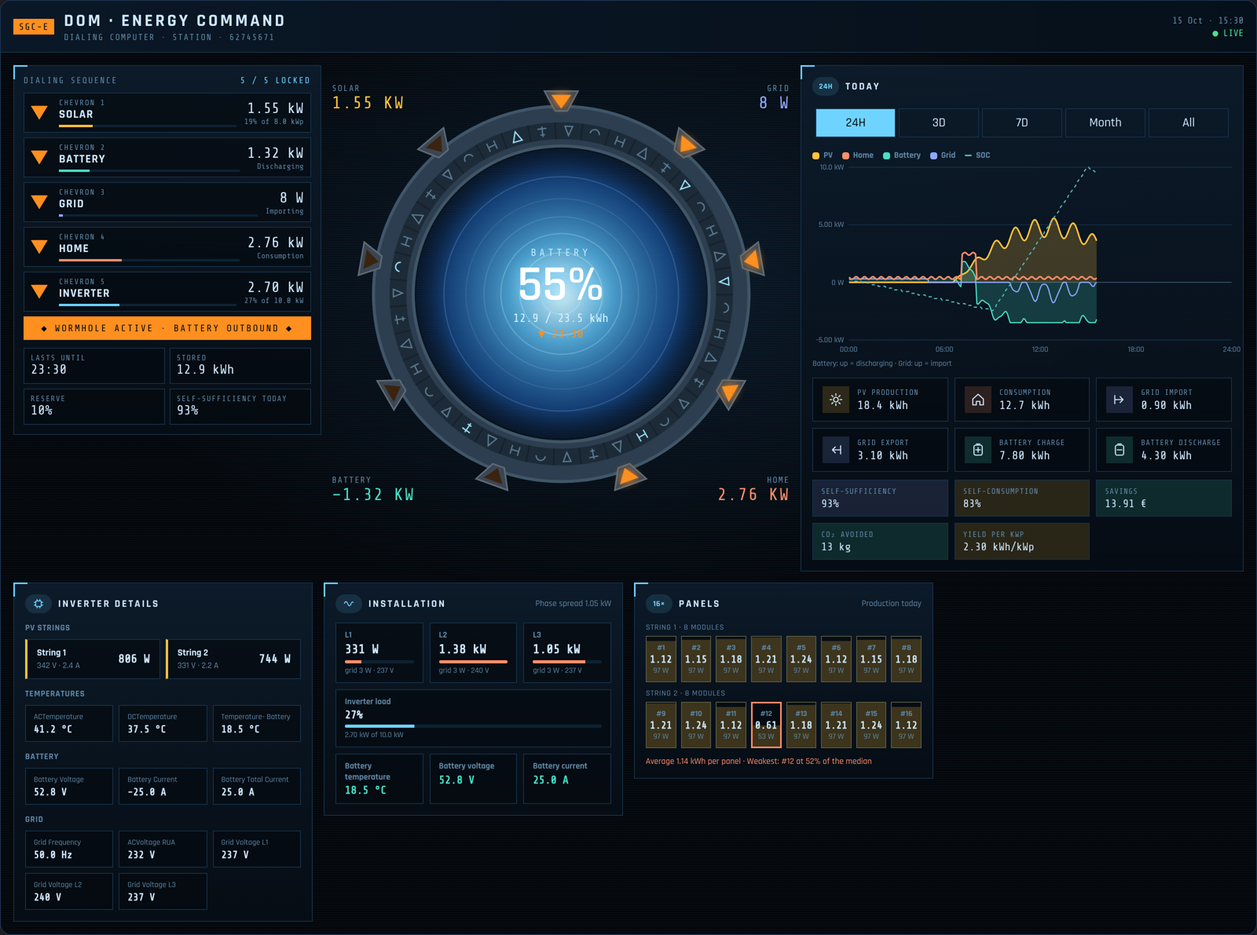
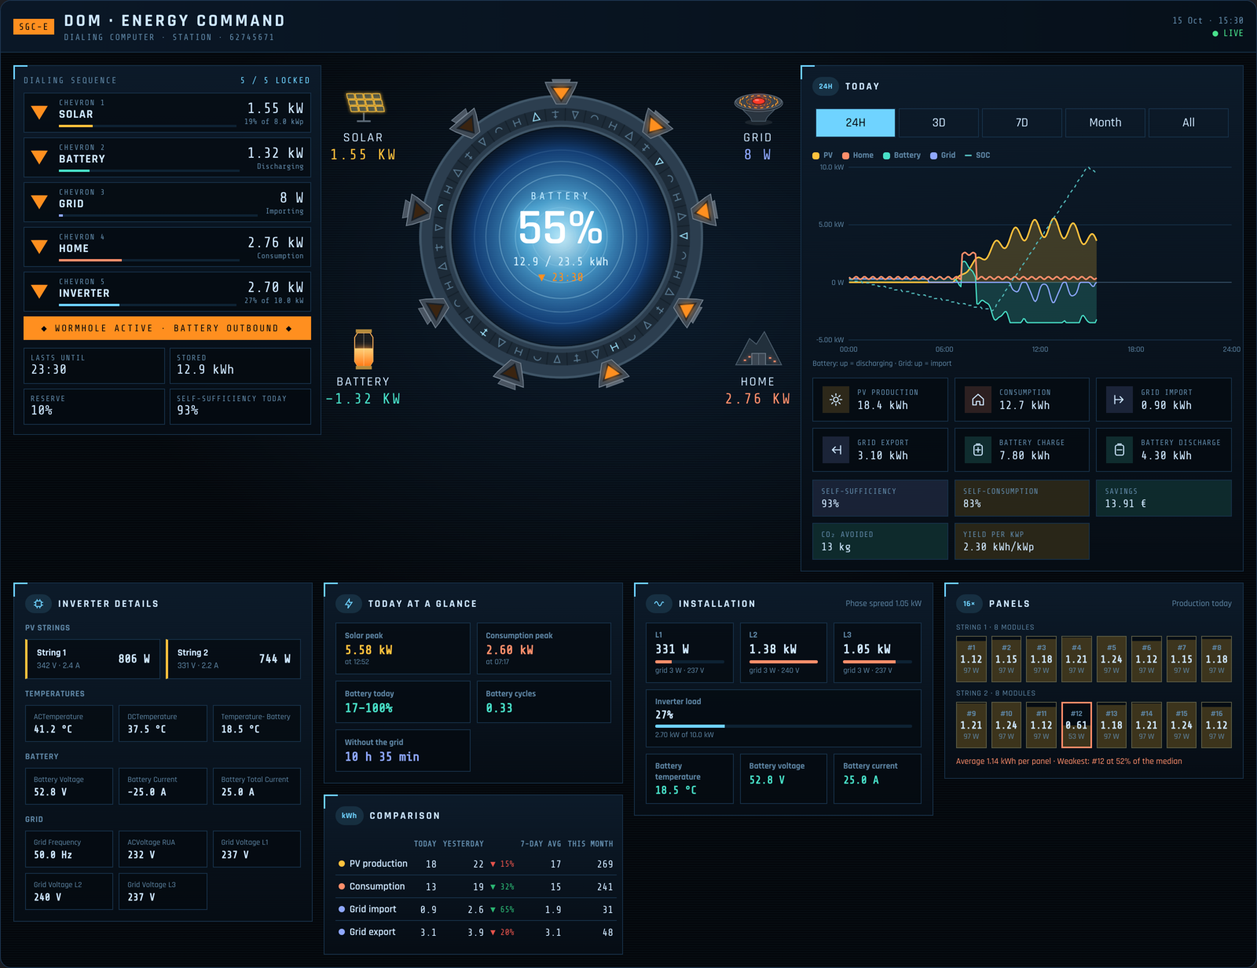
Gate: chevrons after the show, a redrawn DHD, pictures in the wide gate
Claude-Session: https://claude.ai/code/session_0152SgGeW2oeSktbBVvrriod

diff --git a/solar-flow-card.js b/solar-flow-card.js
@@ -2987,7 +2987,11 @@ function gateRingMarkup(m, { lit, active, ports, id }) {
     const cls = !ports ? (i < lit ? "on" : "")
       : port ? `port ${kind} ${port[0] ? "on" : ""}` : kind ? "unused" : GATE_LEVEL.indexOf(i) < lit ? "on" : "";
     chevrons += `<g class="gt-chevron ${cls}" transform="translate(${(Math.cos(a) * 252).toFixed(1)} ${(Math.sin(a) * 252).toFixed(1)}) rotate(${angle + 90})">
-      <path d="M-22 -14 L22 -14 L8 12 L-8 12 Z" class="gt-chevron-body"/><path d="M-13 -9 L13 -9 L0 9 Z" class="gt-chevron-light"/></g>`;
+      <path d="M-16 -27 L16 -27 L13 -19 L-13 -19 Z" class="gt-chevron-clamp"/>
+      <path d="M-28 -18 L28 -18 L24 -8 L9 20 L-9 20 L-24 -8 Z" class="gt-chevron-body"/>
+      <path d="M-24 -8 L-9 20 M24 -8 L9 20 M-28 -18 L28 -18" class="gt-chevron-rib"/>
+      <path d="M-19 -11 L19 -11 L0 17 Z" class="gt-chevron-recess"/>
+      <path d="M-14 -8 L14 -8 L0 12 Z" class="gt-chevron-light"/></g>`;
   }
   const spin = m.live.chargeActive ? "cw" : m.live.dischargeActive ? "ccw" : "";
   const ripples = Array.from({ length: 6 }, (_, i) => `<circle r="${(i + 1) * 26}" style="--d:${loopPhase(6, i)}"/>`).join("");
@@ -3008,12 +3012,19 @@ const gateDefs = (id) => `<defs>
 </defs>`;
 
 // Wide layout: the full gate, nine chevrons for the battery level.
+// Wide layout: the full gate, nine chevrons for the battery level, with
+// the corner pictures beside it (viewBox -400…400 × -300…300).
+const GATE_FULL_ICONS = { pv: [-345, -232], grid: [345, -232], load: [345, 196], battery: [-345, 196] };
+
 function gateFull(m, lit, active) {
-  return `<svg class="gt-svg" viewBox="-300 -300 600 600" aria-hidden="true">${gateDefs("full")}${gateRingMarkup(m, { lit, active, ports: null, id: "full" })}</svg>`;
+  const icons = Object.entries(GATE_FULL_ICONS)
+    .filter(([kind]) => (kind !== "pv" || m.config.showSolar) && (kind !== "battery" || m.config.showBattery))
+    .map(([kind, [x, y]]) => `<g transform="translate(${x} ${y})">${gateIcon(kind, m, "full")}</g>`).join("");
+  return `<svg class="gt-svg" viewBox="-400 -300 800 600" aria-hidden="true">${gateDefs("full")}${icons}${gateRingMarkup(m, { lit, active, ports: null, id: "full" })}</svg>`;
 }
 
 // Pictures for the corners, drawn around 0,0 within about ±40.
-function gateIcon(kind, m) {
+function gateIcon(kind, m, id) {
   const { live } = m;
   if (kind === "pv") {
     // An array of solar cells on a stand.
@@ -3026,23 +3037,31 @@ function gateIcon(kind, m) {
     const level = isNum(live.soc) ? clamp(live.soc, 0, 100) / 100 : 0;
     const top = 30 - level * 56;
     return `<g class="gt-icon battery ${live.chargeActive || live.dischargeActive ? "on" : ""}">
-      <clipPath id="gt-zpm-clip"><path d="M-11 -28 L11 -28 L16 -20 L16 22 L11 30 L-11 30 L-16 22 L-16 -20 Z"/></clipPath>
+      <clipPath id="gt-zpm-clip-${id}"><path d="M-11 -28 L11 -28 L16 -20 L16 22 L11 30 L-11 30 L-16 22 L-16 -20 Z"/></clipPath>
       <path class="gt-zpm-glass" d="M-11 -28 L11 -28 L16 -20 L16 22 L11 30 L-11 30 L-16 22 L-16 -20 Z"/>
-      <rect clip-path="url(#gt-zpm-clip)" x="-16" y="${top.toFixed(1)}" width="32" height="${(30 - top).toFixed(1)}" fill="url(#gt-zpm-compact)" class="gt-zpm-core"/>
+      <rect clip-path="url(#gt-zpm-clip-${id})" x="-16" y="${top.toFixed(1)}" width="32" height="${(30 - top).toFixed(1)}" fill="url(#gt-zpm-${id})" class="gt-zpm-core"/>
       <path class="gt-zpm-band" d="M-14 -34 H14 V-28 H-14 Z M-14 30 H14 V36 H-14 Z"/>
       <path class="gt-zpm-edge" d="M0 -28 V30"/></g>`;
   }
   if (kind === "grid") {
     // A dial home device: rings of glyph keys round a red dome.
-    const keys = (rx, ry, n) => Array.from({ length: n }, (_, i) => {
-      const a = (i / n) * Math.PI * 2;
-      return `<ellipse cx="${(Math.cos(a) * rx).toFixed(1)}" cy="${(Math.sin(a) * ry).toFixed(1)}" rx="3" ry="2"/>`;
+    // Seen from the front and above: a pedestal, a round console with two
+    // rings of nineteen keys, and the red dome in the middle.
+    const ring = (rx, ry, w, cy) => Array.from({ length: 19 }, (_, i) => {
+      const a = (i / 19) * Math.PI * 2 - Math.PI / 2;
+      const x = Math.cos(a) * rx;
+      const y = cy + Math.sin(a) * ry;
+      return `<rect x="${(x - w / 2).toFixed(1)}" y="${(y - w * 0.22).toFixed(1)}" width="${w}" height="${(w * 0.44).toFixed(1)}" rx="1" transform="rotate(${((a * 180) / Math.PI + 90).toFixed(0)} ${x.toFixed(1)} ${y.toFixed(1)})"/>`;
     }).join("");
     return `<g class="gt-icon grid ${live.importActive || live.exportActive ? "on" : ""}">
-      <path class="gt-dhd-base" d="M-36 4 L-26 24 H26 L36 4"/>
-      <ellipse class="gt-dhd-top" rx="38" ry="18" cy="2"/>
-      <g class="gt-dhd-keys">${keys(30, 13, 16)}${keys(19, 8, 12)}</g>
-      <ellipse class="gt-dhd-dome" rx="8" ry="5" cy="1"/></g>`;
+      <ellipse class="gt-dhd-foot" cx="0" cy="32" rx="24" ry="5"/>
+      <path class="gt-dhd-stand" d="M-34 -2 C-30 14 -14 18 -12 30 L12 30 C14 18 30 14 34 -2 Z"/>
+      <ellipse class="gt-dhd-rim" cx="0" cy="-2" rx="42" ry="15"/>
+      <ellipse class="gt-dhd-top" cx="0" cy="-4" rx="40" ry="13.5"/>
+      <g class="gt-dhd-keys outer">${ring(33, 10.5, 6, -4)}</g>
+      <g class="gt-dhd-keys inner">${ring(21, 6.5, 4.4, -4)}</g>
+      <ellipse class="gt-dhd-dome" cx="0" cy="-5" rx="11" ry="5.5"/>
+      <ellipse class="gt-dhd-shine" cx="-3" cy="-7" rx="4" ry="1.6"/></g>`;
   }
   // The base inside the mountain.
   return `<g class="gt-icon load ${live.loadActive ? "on" : ""}">
@@ -3071,7 +3090,7 @@ function gateCompact(m, lit, active) {
     const [x, y] = GATE_ICONS[kind];
     const start = [x + (x < 0 ? 44 : -44), y + (y < 0 ? 18 : -14)];
     lines += flowPath(`M${start[0]} ${start[1]} Q${((start[0] + tip[0]) / 2).toFixed(0)} ${start[1]} ${tip[0].toFixed(1)} ${tip[1].toFixed(1)}`, port[0], port[1], kind);
-    icons += `<g transform="translate(${x} ${y})">${gateIcon(kind, m)}</g>`;
+    icons += `<g transform="translate(${x} ${y})">${gateIcon(kind, m, "compact")}</g>`;
   }
   return `<svg class="gt-svg" viewBox="-330 -280 660 560" aria-hidden="true">${gateDefs("compact")}
     <g class="gt-lines" fill="none" stroke-linecap="round">${lines}</g>
@@ -3120,11 +3139,14 @@ function renderGate(m) {
     load: [t.home, formatPower(live.load, locale), m.ids.live.load],
   };
   // Readouts under the corner pictures of the compact gate (viewBox -330…330 × -280…280).
-  const label = (kind) => {
-    const [x, y] = GATE_ICONS[kind];
+  // A readout under a corner picture; positions follow each gate's viewBox.
+  const label = (kind, wide = false) => {
+    const [x, y] = (wide ? GATE_FULL_ICONS : GATE_ICONS)[kind];
+    const [w, h] = wide ? [800, 600] : [660, 560];
     const [name, value, entity] = values[kind];
-    return `<button class="gt-label ${kind}" style="left:${(((x + 330) / 660) * 100).toFixed(1)}%;top:${(((y + 44 + 280) / 560) * 100).toFixed(1)}%" ${entityAttr(entity)}>${escapeHtml(name)}<b>${escapeHtml(value)}</b></button>`;
+    return `<button class="gt-label ${kind}" style="left:${(((x + w / 2) / w) * 100).toFixed(1)}%;top:${(((y + 44 + h / 2) / h) * 100).toFixed(1)}%" ${entityAttr(entity)}>${escapeHtml(name)}<b>${escapeHtml(value)}</b></button>`;
   };
+  const shown = ["pv", "grid", "battery", "load"].filter((kind) => (kind !== "pv" || config.showSolar) && (kind !== "battery" || config.showBattery));
   const center = `
         <button class="gt-center" data-action="inverter" title="${escapeHtml(t.inverterDetails)}">
           ${config.showBattery ? `
@@ -3143,15 +3165,12 @@ function renderGate(m) {
       <div class="gt-gate gt-compact">
         ${gateCompact(m, Math.round((level / 100) * GATE_LEVEL.length), active)}
         ${center}
-        ${["pv", "grid", "battery", "load"].filter((kind) => (kind !== "pv" || config.showSolar) && (kind !== "battery" || config.showBattery)).map(label).join("")}
+        ${shown.map((kind) => label(kind)).join("")}
       </div>
       <div class="gt-gate gt-full">
         ${gateFull(m, Math.round((level / 100) * 9), active)}
         ${center}
-        ${config.showSolar ? corner("pv", "left:0;top:4%", t.solar, formatPower(live.solar, locale)) : ""}
-        ${corner("grid", "right:0;top:4%", t.grid, formatPower(gridValue, locale))}
-        ${config.showBattery ? corner("battery", "left:0;bottom:4%", t.battery, `${live.dischargeActive ? "−" : live.chargeActive ? "+" : ""}${formatPower(batteryFlow, locale)}`) : ""}
-        ${corner("load", "right:0;bottom:4%", t.home, formatPower(live.load, locale))}
+        ${shown.map((kind) => label(kind, true)).join("")}
       </div>
       <div class="gt-panel gt-dial">
         <div class="gt-ph"><span>${escapeHtml(t.gateDial)}</span><b>${escapeHtml(fill(t.gateLocked, { n: locked, total: rows.length }))}</b></div>
@@ -3942,10 +3961,15 @@ const THEME_CSS = {
     .gt-zpm-glass { fill: rgba(255,170,80,.08); stroke: #ffb35c; stroke-width: 1.6; }
     .gt-zpm-band { fill: #b48a3c; } .gt-zpm-edge { stroke: rgba(255,230,190,.5); stroke-width: 1; }
     .gt-icon.battery.on .gt-zpm-core { filter: drop-shadow(0 0 6px #ff9a3c); }
-    .gt-dhd-base { fill: #2a3540; stroke: #5d6b78; stroke-width: 1.5; }
-    .gt-dhd-top { fill: #3b4652; stroke: #6c7a88; stroke-width: 1.5; }
-    .gt-dhd-keys ellipse { fill: #8a6a3a; } .gt-icon.grid.on .gt-dhd-keys ellipse { fill: #ffb35c; }
-    .gt-dhd-dome { fill: #7a1d14; } .gt-icon.grid.on .gt-dhd-dome { fill: #ff4433; filter: drop-shadow(0 0 6px #ff4433); }
+    .gt-dhd-foot { fill: #1c252e; }
+    .gt-dhd-stand { fill: #2a3540; stroke: #4c5d6c; stroke-width: 1.2; }
+    .gt-dhd-rim { fill: #222c35; stroke: #5d6b78; stroke-width: 1.2; }
+    .gt-dhd-top { fill: #3b4652; stroke: #6c7a88; stroke-width: 1; }
+    .gt-dhd-keys rect { fill: #6e5530; stroke: #2a2014; stroke-width: .5; }
+    .gt-icon.grid.on .gt-dhd-keys.outer rect { fill: #e39a45; } .gt-icon.grid.on .gt-dhd-keys.inner rect { fill: #c9853a; }
+    .gt-dhd-dome { fill: #6e1a12; stroke: #3a0d08; stroke-width: 1; }
+    .gt-icon.grid.on .gt-dhd-dome { fill: #ff3b2a; filter: drop-shadow(0 0 7px #ff4433); }
+    .gt-dhd-shine { fill: rgba(255,255,255,.35); }
     .gt-sgc-mountain { fill: #22303c; stroke: #4c5d6c; stroke-width: 1.5; }
     .gt-sgc-door { fill: #3b4652; stroke: #6c7a88; stroke-width: 1.5; } .gt-sgc-door-line { stroke: #6c7a88; }
     .gt-sgc-lights { stroke: #3a4a58; stroke-width: 2.5; } .gt-icon.load.on .gt-sgc-lights { stroke: var(--sfc-load); filter: drop-shadow(0 0 3px var(--sfc-load)); }
@@ -3964,7 +3988,13 @@ const THEME_CSS = {
     .gt-glyphs.cw { animation: gt-spin 180s linear infinite; animation-delay: var(--d); }
     .gt-glyphs.ccw { animation: gt-spin 180s linear infinite reverse; animation-delay: var(--d); }
     @keyframes gt-spin { to { transform: rotate(360deg); } }
-    .gt-chevron-body { fill: #3b4652; stroke: #5d6b78; stroke-width: 2; }
+    /* Chevrons: a metal arrowhead housing, a clamp that drops into place
+       when the chevron locks, and the triangular light. */
+    .gt-chevron-body { fill: #3e4955; stroke: #6b7987; stroke-width: 1.5; }
+    .gt-chevron-rib { fill: none; stroke: #8996a3; stroke-width: 1; opacity: .6; }
+    .gt-chevron-recess { fill: #1a2027; }
+    .gt-chevron-clamp { fill: #4a5562; stroke: #6b7987; stroke-width: 1.2; transition: transform .6s; transform-box: fill-box; }
+    .gt-chevron.on .gt-chevron-clamp, .gt-chevron.port.on .gt-chevron-clamp { transform: translateY(4px); fill: #5b6672; }
     .gt-chevron-light { fill: #3a2410; }
     .gt-chevron.on .gt-chevron-light { fill: var(--gt-amber); filter: drop-shadow(0 0 6px var(--gt-amber)); }
     .gt-chevron.unused { opacity: .45; }
@@ -4015,7 +4045,7 @@ const THEME_CSS = {
     @container (min-width: 1000px) {
       .gt-layout.wide { grid-template-columns: minmax(340px, 34%) minmax(0, 1fr); grid-template-areas: "dial gate" "energy energy" "sections sections"; align-items: start; padding-top: 16px; }
       .gt-layout.wide .gt-dial { grid-area: dial; }
-      .gt-layout.wide .gt-gate { grid-area: gate; width: 100%; max-width: 640px; justify-self: center; }
+      .gt-layout.wide .gt-gate { grid-area: gate; width: 100%; max-width: 760px; justify-self: center; }
       .gt-layout.wide .gt-full { display: grid; }
       .gt-layout.wide .gt-compact { display: none; }
       .gt-layout.wide .gt-energy { grid-area: energy; }

diff --git a/src/50-themes.js b/src/50-themes.js
@@ -808,7 +808,11 @@ function gateRingMarkup(m, { lit, active, ports, id }) {
     const cls = !ports ? (i < lit ? "on" : "")
       : port ? `port ${kind} ${port[0] ? "on" : ""}` : kind ? "unused" : GATE_LEVEL.indexOf(i) < lit ? "on" : "";
     chevrons += `<g class="gt-chevron ${cls}" transform="translate(${(Math.cos(a) * 252).toFixed(1)} ${(Math.sin(a) * 252).toFixed(1)}) rotate(${angle + 90})">
-      <path d="M-22 -14 L22 -14 L8 12 L-8 12 Z" class="gt-chevron-body"/><path d="M-13 -9 L13 -9 L0 9 Z" class="gt-chevron-light"/></g>`;
+      <path d="M-16 -27 L16 -27 L13 -19 L-13 -19 Z" class="gt-chevron-clamp"/>
+      <path d="M-28 -18 L28 -18 L24 -8 L9 20 L-9 20 L-24 -8 Z" class="gt-chevron-body"/>
+      <path d="M-24 -8 L-9 20 M24 -8 L9 20 M-28 -18 L28 -18" class="gt-chevron-rib"/>
+      <path d="M-19 -11 L19 -11 L0 17 Z" class="gt-chevron-recess"/>
+      <path d="M-14 -8 L14 -8 L0 12 Z" class="gt-chevron-light"/></g>`;
   }
   const spin = m.live.chargeActive ? "cw" : m.live.dischargeActive ? "ccw" : "";
   const ripples = Array.from({ length: 6 }, (_, i) => `<circle r="${(i + 1) * 26}" style="--d:${loopPhase(6, i)}"/>`).join("");
@@ -829,12 +833,19 @@ const gateDefs = (id) => `<defs>
 </defs>`;
 
 // Wide layout: the full gate, nine chevrons for the battery level.
+// Wide layout: the full gate, nine chevrons for the battery level, with
+// the corner pictures beside it (viewBox -400…400 × -300…300).
+const GATE_FULL_ICONS = { pv: [-345, -232], grid: [345, -232], load: [345, 196], battery: [-345, 196] };
+
 function gateFull(m, lit, active) {
-  return `<svg class="gt-svg" viewBox="-300 -300 600 600" aria-hidden="true">${gateDefs("full")}${gateRingMarkup(m, { lit, active, ports: null, id: "full" })}</svg>`;
+  const icons = Object.entries(GATE_FULL_ICONS)
+    .filter(([kind]) => (kind !== "pv" || m.config.showSolar) && (kind !== "battery" || m.config.showBattery))
+    .map(([kind, [x, y]]) => `<g transform="translate(${x} ${y})">${gateIcon(kind, m, "full")}</g>`).join("");
+  return `<svg class="gt-svg" viewBox="-400 -300 800 600" aria-hidden="true">${gateDefs("full")}${icons}${gateRingMarkup(m, { lit, active, ports: null, id: "full" })}</svg>`;
 }
 
 // Pictures for the corners, drawn around 0,0 within about ±40.
-function gateIcon(kind, m) {
+function gateIcon(kind, m, id) {
   const { live } = m;
   if (kind === "pv") {
     // An array of solar cells on a stand.
@@ -847,23 +858,31 @@ function gateIcon(kind, m) {
     const level = isNum(live.soc) ? clamp(live.soc, 0, 100) / 100 : 0;
     const top = 30 - level * 56;
     return `<g class="gt-icon battery ${live.chargeActive || live.dischargeActive ? "on" : ""}">
-      <clipPath id="gt-zpm-clip"><path d="M-11 -28 L11 -28 L16 -20 L16 22 L11 30 L-11 30 L-16 22 L-16 -20 Z"/></clipPath>
+      <clipPath id="gt-zpm-clip-${id}"><path d="M-11 -28 L11 -28 L16 -20 L16 22 L11 30 L-11 30 L-16 22 L-16 -20 Z"/></clipPath>
       <path class="gt-zpm-glass" d="M-11 -28 L11 -28 L16 -20 L16 22 L11 30 L-11 30 L-16 22 L-16 -20 Z"/>
-      <rect clip-path="url(#gt-zpm-clip)" x="-16" y="${top.toFixed(1)}" width="32" height="${(30 - top).toFixed(1)}" fill="url(#gt-zpm-compact)" class="gt-zpm-core"/>
+      <rect clip-path="url(#gt-zpm-clip-${id})" x="-16" y="${top.toFixed(1)}" width="32" height="${(30 - top).toFixed(1)}" fill="url(#gt-zpm-${id})" class="gt-zpm-core"/>
       <path class="gt-zpm-band" d="M-14 -34 H14 V-28 H-14 Z M-14 30 H14 V36 H-14 Z"/>
       <path class="gt-zpm-edge" d="M0 -28 V30"/></g>`;
   }
   if (kind === "grid") {
     // A dial home device: rings of glyph keys round a red dome.
-    const keys = (rx, ry, n) => Array.from({ length: n }, (_, i) => {
-      const a = (i / n) * Math.PI * 2;
-      return `<ellipse cx="${(Math.cos(a) * rx).toFixed(1)}" cy="${(Math.sin(a) * ry).toFixed(1)}" rx="3" ry="2"/>`;
+    // Seen from the front and above: a pedestal, a round console with two
+    // rings of nineteen keys, and the red dome in the middle.
+    const ring = (rx, ry, w, cy) => Array.from({ length: 19 }, (_, i) => {
+      const a = (i / 19) * Math.PI * 2 - Math.PI / 2;
+      const x = Math.cos(a) * rx;
+      const y = cy + Math.sin(a) * ry;
+      return `<rect x="${(x - w / 2).toFixed(1)}" y="${(y - w * 0.22).toFixed(1)}" width="${w}" height="${(w * 0.44).toFixed(1)}" rx="1" transform="rotate(${((a * 180) / Math.PI + 90).toFixed(0)} ${x.toFixed(1)} ${y.toFixed(1)})"/>`;
     }).join("");
     return `<g class="gt-icon grid ${live.importActive || live.exportActive ? "on" : ""}">
-      <path class="gt-dhd-base" d="M-36 4 L-26 24 H26 L36 4"/>
-      <ellipse class="gt-dhd-top" rx="38" ry="18" cy="2"/>
-      <g class="gt-dhd-keys">${keys(30, 13, 16)}${keys(19, 8, 12)}</g>
-      <ellipse class="gt-dhd-dome" rx="8" ry="5" cy="1"/></g>`;
+      <ellipse class="gt-dhd-foot" cx="0" cy="32" rx="24" ry="5"/>
+      <path class="gt-dhd-stand" d="M-34 -2 C-30 14 -14 18 -12 30 L12 30 C14 18 30 14 34 -2 Z"/>
+      <ellipse class="gt-dhd-rim" cx="0" cy="-2" rx="42" ry="15"/>
+      <ellipse class="gt-dhd-top" cx="0" cy="-4" rx="40" ry="13.5"/>
+      <g class="gt-dhd-keys outer">${ring(33, 10.5, 6, -4)}</g>
+      <g class="gt-dhd-keys inner">${ring(21, 6.5, 4.4, -4)}</g>
+      <ellipse class="gt-dhd-dome" cx="0" cy="-5" rx="11" ry="5.5"/>
+      <ellipse class="gt-dhd-shine" cx="-3" cy="-7" rx="4" ry="1.6"/></g>`;
   }
   // The base inside the mountain.
   return `<g class="gt-icon load ${live.loadActive ? "on" : ""}">
@@ -892,7 +911,7 @@ function gateCompact(m, lit, active) {
     const [x, y] = GATE_ICONS[kind];
     const start = [x + (x < 0 ? 44 : -44), y + (y < 0 ? 18 : -14)];
     lines += flowPath(`M${start[0]} ${start[1]} Q${((start[0] + tip[0]) / 2).toFixed(0)} ${start[1]} ${tip[0].toFixed(1)} ${tip[1].toFixed(1)}`, port[0], port[1], kind);
-    icons += `<g transform="translate(${x} ${y})">${gateIcon(kind, m)}</g>`;
+    icons += `<g transform="translate(${x} ${y})">${gateIcon(kind, m, "compact")}</g>`;
   }
   return `<svg class="gt-svg" viewBox="-330 -280 660 560" aria-hidden="true">${gateDefs("compact")}
     <g class="gt-lines" fill="none" stroke-linecap="round">${lines}</g>
@@ -941,11 +960,14 @@ function renderGate(m) {
     load: [t.home, formatPower(live.load, locale), m.ids.live.load],
   };
   // Readouts under the corner pictures of the compact gate (viewBox -330…330 × -280…280).
-  const label = (kind) => {
-    const [x, y] = GATE_ICONS[kind];
+  // A readout under a corner picture; positions follow each gate's viewBox.
+  const label = (kind, wide = false) => {
+    const [x, y] = (wide ? GATE_FULL_ICONS : GATE_ICONS)[kind];
+    const [w, h] = wide ? [800, 600] : [660, 560];
     const [name, value, entity] = values[kind];
-    return `<button class="gt-label ${kind}" style="left:${(((x + 330) / 660) * 100).toFixed(1)}%;top:${(((y + 44 + 280) / 560) * 100).toFixed(1)}%" ${entityAttr(entity)}>${escapeHtml(name)}<b>${escapeHtml(value)}</b></button>`;
+    return `<button class="gt-label ${kind}" style="left:${(((x + w / 2) / w) * 100).toFixed(1)}%;top:${(((y + 44 + h / 2) / h) * 100).toFixed(1)}%" ${entityAttr(entity)}>${escapeHtml(name)}<b>${escapeHtml(value)}</b></button>`;
   };
+  const shown = ["pv", "grid", "battery", "load"].filter((kind) => (kind !== "pv" || config.showSolar) && (kind !== "battery" || config.showBattery));
   const center = `
         <button class="gt-center" data-action="inverter" title="${escapeHtml(t.inverterDetails)}">
           ${config.showBattery ? `
@@ -964,15 +986,12 @@ function renderGate(m) {
       <div class="gt-gate gt-compact">
         ${gateCompact(m, Math.round((level / 100) * GATE_LEVEL.length), active)}
         ${center}
-        ${["pv", "grid", "battery", "load"].filter((kind) => (kind !== "pv" || config.showSolar) && (kind !== "battery" || config.showBattery)).map(label).join("")}
+        ${shown.map((kind) => label(kind)).join("")}
       </div>
       <div class="gt-gate gt-full">
         ${gateFull(m, Math.round((level / 100) * 9), active)}
         ${center}
-        ${config.showSolar ? corner("pv", "left:0;top:4%", t.solar, formatPower(live.solar, locale)) : ""}
-        ${corner("grid", "right:0;top:4%", t.grid, formatPower(gridValue, locale))}
-        ${config.showBattery ? corner("battery", "left:0;bottom:4%", t.battery, `${live.dischargeActive ? "−" : live.chargeActive ? "+" : ""}${formatPower(batteryFlow, locale)}`) : ""}
-        ${corner("load", "right:0;bottom:4%", t.home, formatPower(live.load, locale))}
+        ${shown.map((kind) => label(kind, true)).join("")}
       </div>
       <div class="gt-panel gt-dial">
         <div class="gt-ph"><span>${escapeHtml(t.gateDial)}</span><b>${escapeHtml(fill(t.gateLocked, { n: locked, total: rows.length }))}</b></div>

diff --git a/src/60-styles.js b/src/60-styles.js
@@ -754,10 +754,15 @@ const THEME_CSS = {
     .gt-zpm-glass { fill: rgba(255,170,80,.08); stroke: #ffb35c; stroke-width: 1.6; }
     .gt-zpm-band { fill: #b48a3c; } .gt-zpm-edge { stroke: rgba(255,230,190,.5); stroke-width: 1; }
     .gt-icon.battery.on .gt-zpm-core { filter: drop-shadow(0 0 6px #ff9a3c); }
-    .gt-dhd-base { fill: #2a3540; stroke: #5d6b78; stroke-width: 1.5; }
-    .gt-dhd-top { fill: #3b4652; stroke: #6c7a88; stroke-width: 1.5; }
-    .gt-dhd-keys ellipse { fill: #8a6a3a; } .gt-icon.grid.on .gt-dhd-keys ellipse { fill: #ffb35c; }
-    .gt-dhd-dome { fill: #7a1d14; } .gt-icon.grid.on .gt-dhd-dome { fill: #ff4433; filter: drop-shadow(0 0 6px #ff4433); }
+    .gt-dhd-foot { fill: #1c252e; }
+    .gt-dhd-stand { fill: #2a3540; stroke: #4c5d6c; stroke-width: 1.2; }
+    .gt-dhd-rim { fill: #222c35; stroke: #5d6b78; stroke-width: 1.2; }
+    .gt-dhd-top { fill: #3b4652; stroke: #6c7a88; stroke-width: 1; }
+    .gt-dhd-keys rect { fill: #6e5530; stroke: #2a2014; stroke-width: .5; }
+    .gt-icon.grid.on .gt-dhd-keys.outer rect { fill: #e39a45; } .gt-icon.grid.on .gt-dhd-keys.inner rect { fill: #c9853a; }
+    .gt-dhd-dome { fill: #6e1a12; stroke: #3a0d08; stroke-width: 1; }
+    .gt-icon.grid.on .gt-dhd-dome { fill: #ff3b2a; filter: drop-shadow(0 0 7px #ff4433); }
+    .gt-dhd-shine { fill: rgba(255,255,255,.35); }
     .gt-sgc-mountain { fill: #22303c; stroke: #4c5d6c; stroke-width: 1.5; }
     .gt-sgc-door { fill: #3b4652; stroke: #6c7a88; stroke-width: 1.5; } .gt-sgc-door-line { stroke: #6c7a88; }
     .gt-sgc-lights { stroke: #3a4a58; stroke-width: 2.5; } .gt-icon.load.on .gt-sgc-lights { stroke: var(--sfc-load); filter: drop-shadow(0 0 3px var(--sfc-load)); }
@@ -776,7 +781,13 @@ const THEME_CSS = {
     .gt-glyphs.cw { animation: gt-spin 180s linear infinite; animation-delay: var(--d); }
     .gt-glyphs.ccw { animation: gt-spin 180s linear infinite reverse; animation-delay: var(--d); }
     @keyframes gt-spin { to { transform: rotate(360deg); } }
-    .gt-chevron-body { fill: #3b4652; stroke: #5d6b78; stroke-width: 2; }
+    /* Chevrons: a metal arrowhead housing, a clamp that drops into place
+       when the chevron locks, and the triangular light. */
+    .gt-chevron-body { fill: #3e4955; stroke: #6b7987; stroke-width: 1.5; }
+    .gt-chevron-rib { fill: none; stroke: #8996a3; stroke-width: 1; opacity: .6; }
+    .gt-chevron-recess { fill: #1a2027; }
+    .gt-chevron-clamp { fill: #4a5562; stroke: #6b7987; stroke-width: 1.2; transition: transform .6s; transform-box: fill-box; }
+    .gt-chevron.on .gt-chevron-clamp, .gt-chevron.port.on .gt-chevron-clamp { transform: translateY(4px); fill: #5b6672; }
     .gt-chevron-light { fill: #3a2410; }
     .gt-chevron.on .gt-chevron-light { fill: var(--gt-amber); filter: drop-shadow(0 0 6px var(--gt-amber)); }
     .gt-chevron.unused { opacity: .45; }
@@ -827,7 +838,7 @@ const THEME_CSS = {
     @container (min-width: 1000px) {
       .gt-layout.wide { grid-template-columns: minmax(340px, 34%) minmax(0, 1fr); grid-template-areas: "dial gate" "energy energy" "sections sections"; align-items: start; padding-top: 16px; }
       .gt-layout.wide .gt-dial { grid-area: dial; }
-      .gt-layout.wide .gt-gate { grid-area: gate; width: 100%; max-width: 640px; justify-self: center; }
+      .gt-layout.wide .gt-gate { grid-area: gate; width: 100%; max-width: 760px; justify-self: center; }
       .gt-layout.wide .gt-full { display: grid; }
       .gt-layout.wide .gt-compact { display: none; }
       .gt-layout.wide .gt-energy { grid-area: energy; }

diff --git a/CHANGELOG.md b/CHANGELOG.md
@@ -6,6 +6,7 @@
 - **Wide layout** for every theme (`wide: true`, also in the editor): the main view and the chart side by side, the other sections open below in balanced columns, with the inverter details shown without a click. A missing section (no panels, no battery) leaves no gap. Below about 880 px of card width the card stays compact.
 - **Today at a glance** and **Comparison** sections (`show_insights`, on by default in the wide layout, also in the editor): solar and consumption peaks with their time, the battery's range and cycles today, time without the grid; today against yesterday (with the trend), the 7-day average and this month for production, consumption, grid import and export. Calculated from Home Assistant's history and statistics, so they work with any inverter.
 - **Panel estimate without optimizers**: `panels_per_string` (a number, or a list per string; also in the editor). When the panels don't report their own data, the Panels section shows each string's power divided over its panels and today's energy divided over all panels, on dashed tiles marked ≈, with a note that this is an estimate. The Diorama roof draws that many modules. The editor shows one field per PV string the inverter reports ("PV1 · now 342 V"), so each string can have its own count; without string data it shows a single field. The demo has a "no optimizers" setting.
+- Gate: chevrons drawn after the show's: a metal arrowhead housing, a clamp that drops into place when the chevron locks and a triangular light; a redrawn dial home device (pedestal, two rings of nineteen keys, the red dome); the wide gate has the corner pictures too.
 - The theme picker in the editor wraps to fit nine themes.
 - Demo: always loads the latest card (no stale copy from the browser cache), shows the card version, and switches to the wide layout when a wide width is picked.
 
